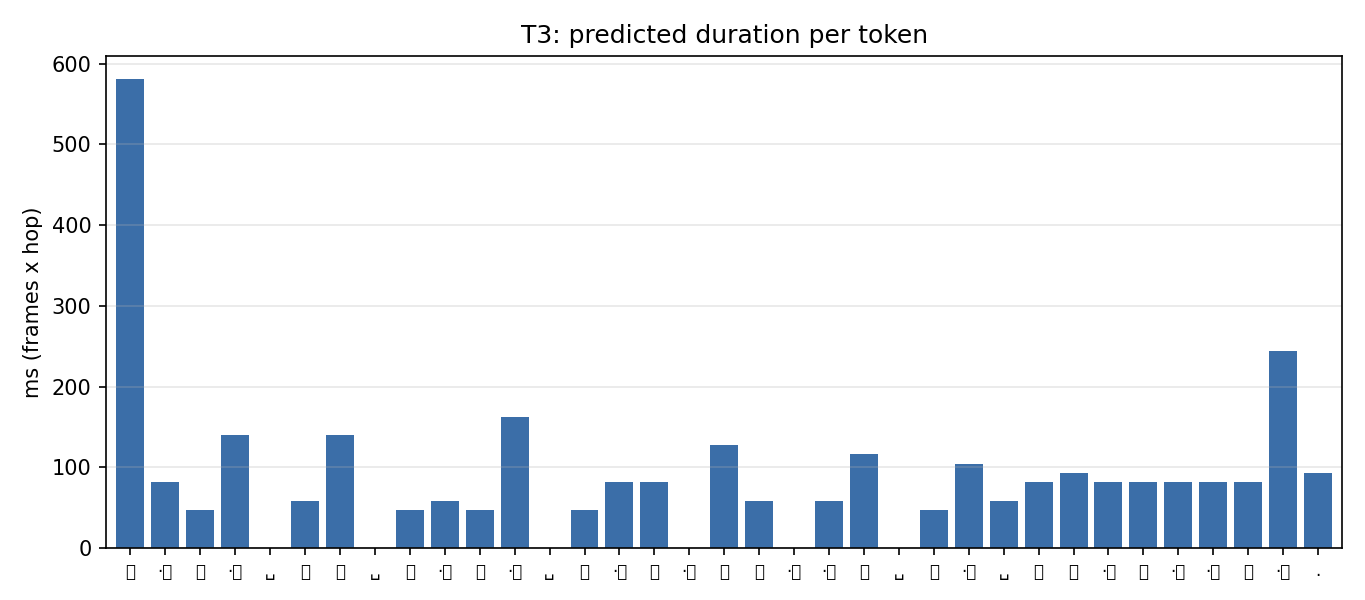
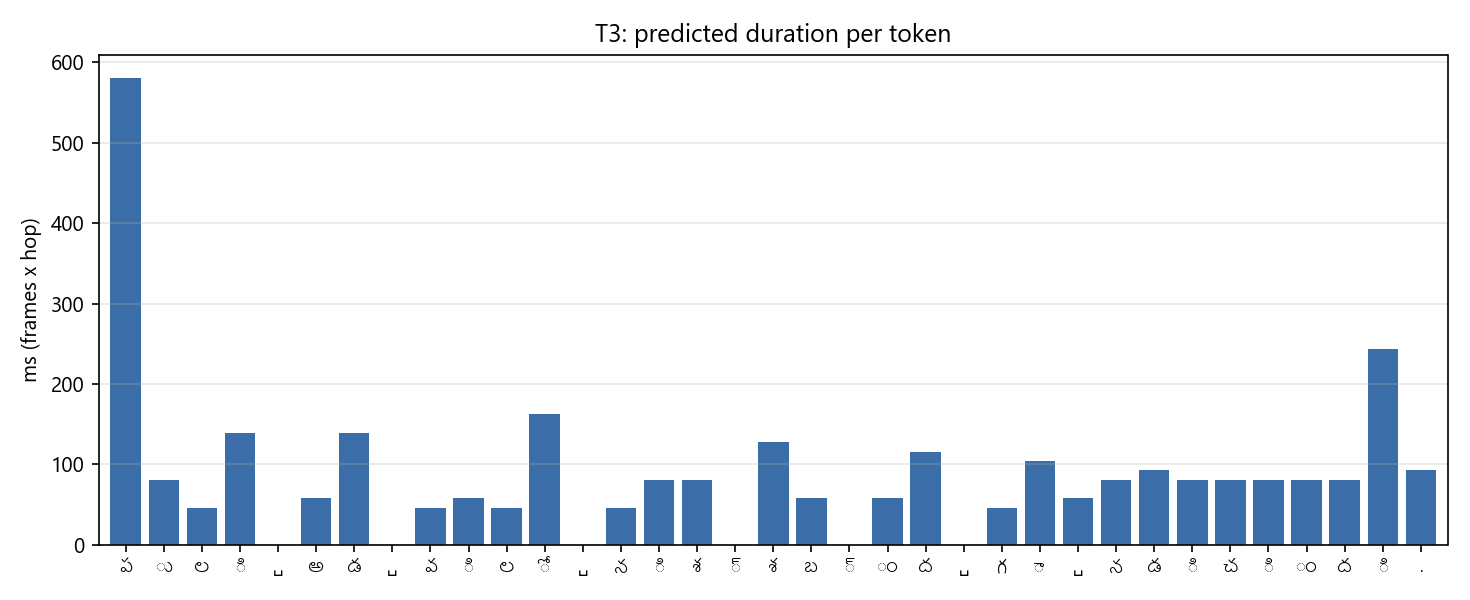
update README tree and Telugu variance adaptor plots

diff --git a/README.md b/README.md
@@ -44,7 +44,8 @@ project/
 ├── daily_log/
 │   ├── 4 nov.md
 │   ├── 5 nov.md
-│   └── 6 nov.md
+│   ├── 6 nov.md
+│   └── 7 nov.md
 └── requirements.txt
 ```
 
